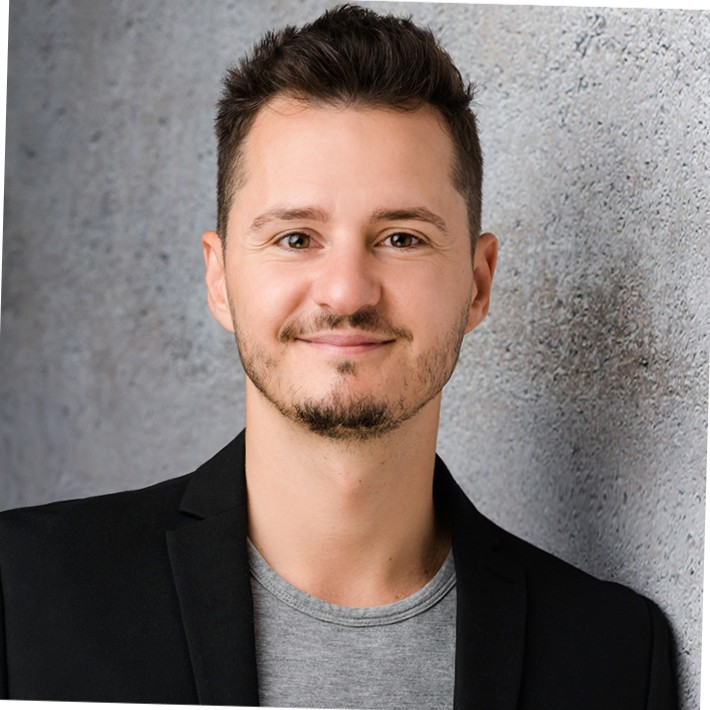
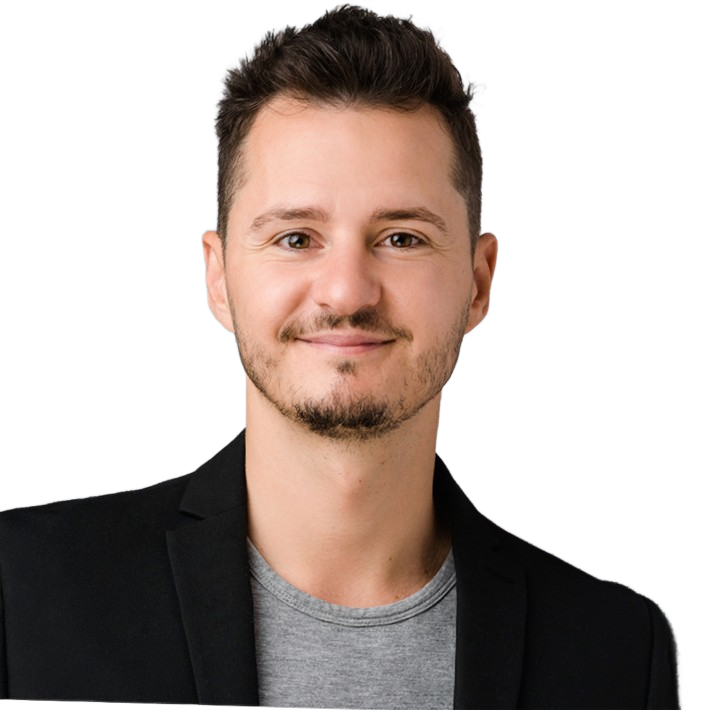
Change photo

diff --git a/app/page.tsx b/app/page.tsx
@@ -55,7 +55,7 @@ export default function Home() {
               </p>
               <div className="call-to-action">
                 <a href="./Sample_Resume_Template.pdf" className="button black">View Resume</a>
-                <a href="mailto:hello@adriantwarog.com" className="button white">Contact Me</a>
+                <a href="Elvisponjevic88@gmail.com" className="button white">Contact Me</a>
               </div>
               <div className="social-links">
                 <a href="#">
@@ -68,14 +68,14 @@ export default function Home() {
             </div>
           </div>
           <div className="hero-yellow">
-            <Image src="/imgs/Elvis.jpg" alt="Elvis Ponjevic" width={400} height={400} />
+            <Image src="/imgs/elvis.jpg" alt="Elvis Ponjevic" width={400} height={400} />
           </div>
         </section>
 
         <section className="logos container">
           <div className="marquee">
             <div className="track">
-              {["html", "css", "javascript", "sass", "react", "nextjs", "azure", "vscode", "python"].map((tech) => (
+              {["html", "css", "javascript", "sass", "react", "nextjs", "azure", "vscode", "python", "html", "css", "javascript", "sass", "react", "nextjs", "azure", "vscode", "python"].map((tech) => (
                 <Image key={tech} src={`/imgs/${tech}.png`} alt={tech.toUpperCase()} width={128} height={128} />
               ))}
             </div>

diff --git a/app/globals.css b/app/globals.css
@@ -222,7 +222,7 @@ h1 {
 		flex:1;
 		background-color: var(--yellow);
 		border-radius:30px;
-		padding:0px 30px;
+		padding:30px 30px;
 		display:flex;
 		justify-content:center;
 		align-items:flex-end;
